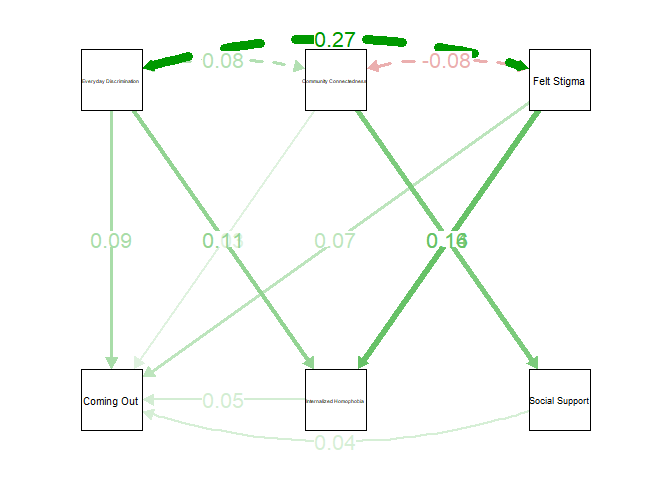
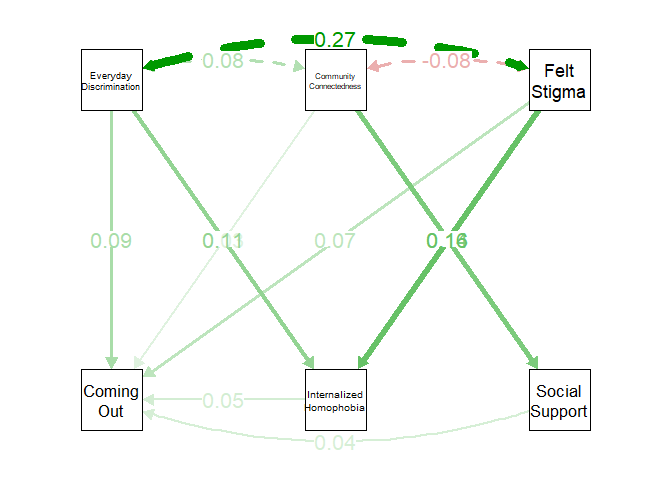
font

diff --git a/p10/p10.md b/p10/p10.md
@@ -117,6 +117,8 @@ library(sjPlot)
 
     ## Warning: package 'sjPlot' was built under R version 4.2.3
 
+    ## Learn more about sjPlot with 'browseVignettes("sjPlot")'.
+
 ``` r
 library(lavaan)
 ```
@@ -515,7 +517,7 @@ summary(fit1, fit.measures=TRUE, standardized=T)
     ##    .W1SOCSUPPORT      1.635    0.082   20.050    0.000    1.635    0.981
 
 ``` r
-semPaths(fit1, "std", layout = "tree", edge.width = 1.5, edge.label.cex = 1.5, node.width=2, residuals=FALSE, nodeLabels = c("Coming Out", "Internalized Homophobia", "Social Support", "Everyday Discrimination", "Community Connectedness", "Felt Stigma"), label.cex =1.2)
+semPaths(fit1, "std", layout = "tree", edge.width = 1.5, edge.label.cex = 1.5, node.width=2, residuals=FALSE, nodeLabels = c("Coming\nOut", "Internalized\nHomophobia", "Social\nSupport", "Everyday\nDiscrimination", "Community\nConnectedness", "Felt\nStigma"), label.cex =1.2)
 ```
 
 ![](p10_files/figure-gfm/unnamed-chunk-3-1.png)<!-- -->
@@ -617,7 +619,7 @@ summary(fit2, fit.measures=TRUE, standardized=T)
     ##    .W2SOCSUPPORT      1.424    0.085   16.808    0.000    1.424    0.950
 
 ``` r
-semPaths(fit2, "std", layout = "tree", edge.width = 1.5, edge.label.cex = 1.5, node.width=2, residuals=FALSE, nodeLabels = c("Coming Out", "Internalized Homophobia", "Social Support", "Everyday Discrimination", "Community Connectedness", "Felt Stigma"), label.cex =1.2)
+semPaths(fit2, "std", layout = "tree", edge.width = 1.5, edge.label.cex = 1.5, node.width=2, residuals=FALSE, nodeLabels = c("Coming\nOut", "Internalized\nHomophobia", "Social\nSupport", "Everyday\nDiscrimination", "Community\nConnectedness", "Felt\nStigma"), label.cex =1.2)
 ```
 
 ![](p10_files/figure-gfm/unnamed-chunk-4-1.png)<!-- -->
@@ -723,7 +725,7 @@ summary(fit3, fit.measures=TRUE, standardized=T)
     ##    .W3SOCSUPPORT      1.396    0.078   17.972    0.000    1.396    0.963
 
 ``` r
-semPaths(fit3, "std", layout = "tree", edge.width = 1.5, edge.label.cex = 1.5, node.width=2, residuals=FALSE, nodeLabels = c("Coming Out", "Internalized Homophobia", "Social Support", "Everyday Discrimination", "Community Connectedness", "Felt Stigma"), label.cex =1.2)
+semPaths(fit3, "std", layout = "tree", edge.width = 1.5, edge.label.cex = 1.5, node.width=2, residuals=FALSE, nodeLabels = c("Coming\nOut", "Internalized\nHomophobia", "Social\nSupport", "Everyday\nDiscrimination", "Community\nConnectedness", "Felt\nStigma"), label.cex =1.2)
 ```
 
 ![](p10_files/figure-gfm/unnamed-chunk-5-1.png)<!-- -->
